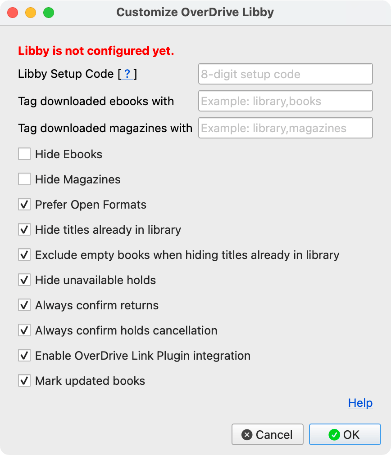
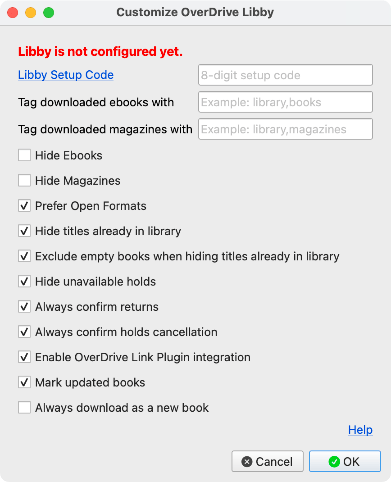
Bump version to 0.1.6

Changed region(s): [[0.0307, 0.0923, 0.9514, 0.8615], [0.0, 0.0, 1.0, 0.0615], [0.6138, 0.8615, 0.9821, 0.9846]]

diff --git a/calibre-plugin/__init__.py b/calibre-plugin/__init__.py
@@ -17,7 +17,7 @@ from calibre.customize import InterfaceActionBase
 
 load_translations()
 
-__version__ = (0, 1, 5)
+__version__ = (0, 1, 6)
 PLUGIN_NAME = "overdrive_libby"
 PLUGIN_ICON = "images/plugin.svg"
 

diff --git a/README.md b/README.md
@@ -62,6 +62,8 @@ You should only need to do this setup once. Then add the plugin to the toolbar/m
   - Enable or disable the integration. If enabled, the plugin will attempt to find a matching OverDrive-linked book that does not have any formats and add the new download as an EPUB to the book record. Newly downloaded books will also have the `odid` identifier added.
 - Mark updated books
   - This relates to empty books that are updated with a download by the plugin. If enabled, book records that were updated with a new format will be marked.
+- Always download as a new book
+  - Never update an existing empty book. Always create a new book entry for a download.
 
 ## Usage
 
@@ -109,7 +111,7 @@ To stop monitoring a title, select and right-click on the row, then select "Canc
 
 ## Credit
 
-- Icons from https://remixicon.com/
+- Icons from https://remixicon.com/ and https://tabler-icons.io/
 
 ## Disclaimer
 

diff --git a/CHANGELOG.md b/CHANGELOG.md
@@ -1,11 +1,12 @@
 # Changelog
 
-Unreleased
-- Match empty books for update using ISBN/ASIN even if OverDrive Link Integration is not enabled
-- Add configuration option to turn off updating of existing empty books
-- Indicate if loan is a skip-the-line checkout
-- Improve identifying titles already in library by also matching ISBN/ASIN
+Version 0.1.6 - 2023-07-21
 - Fix error if loan was sent to Kindle
+- Fix issue for Windows where window size is not restored properly
+- Update more book metadata from loan details
+- Match empty books for update using title/ISBN/ASIN even if OverDrive Link Integration is not enabled
+- Add option to disable updating of existing empty books
+- Indicate if loan is a skip-the-line checkout
 - Make UI more keyboard navigable
 
 Version 0.1.5 - 2023-07-15
